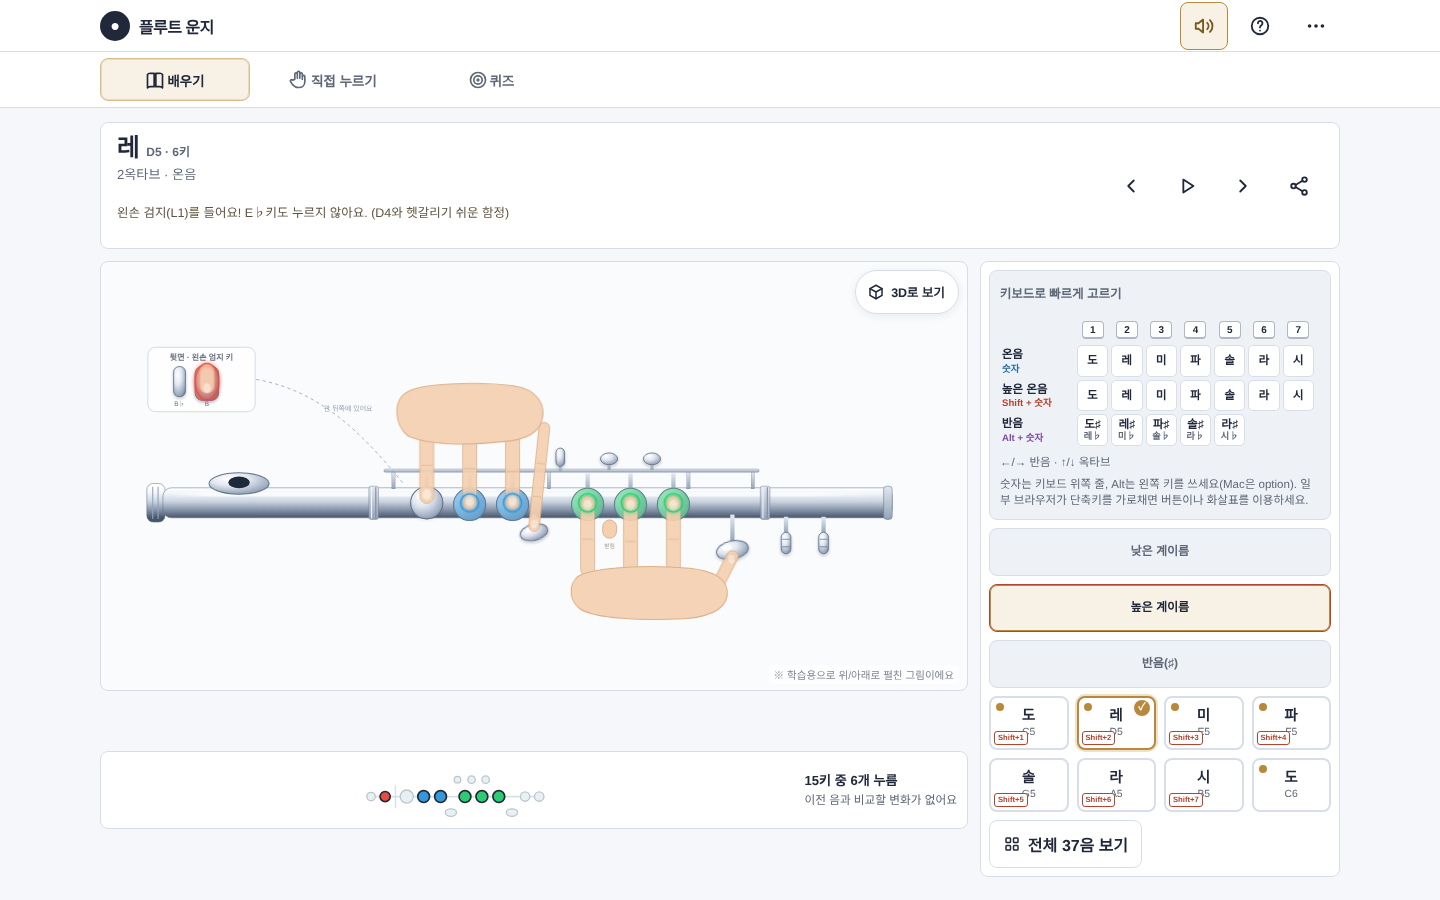
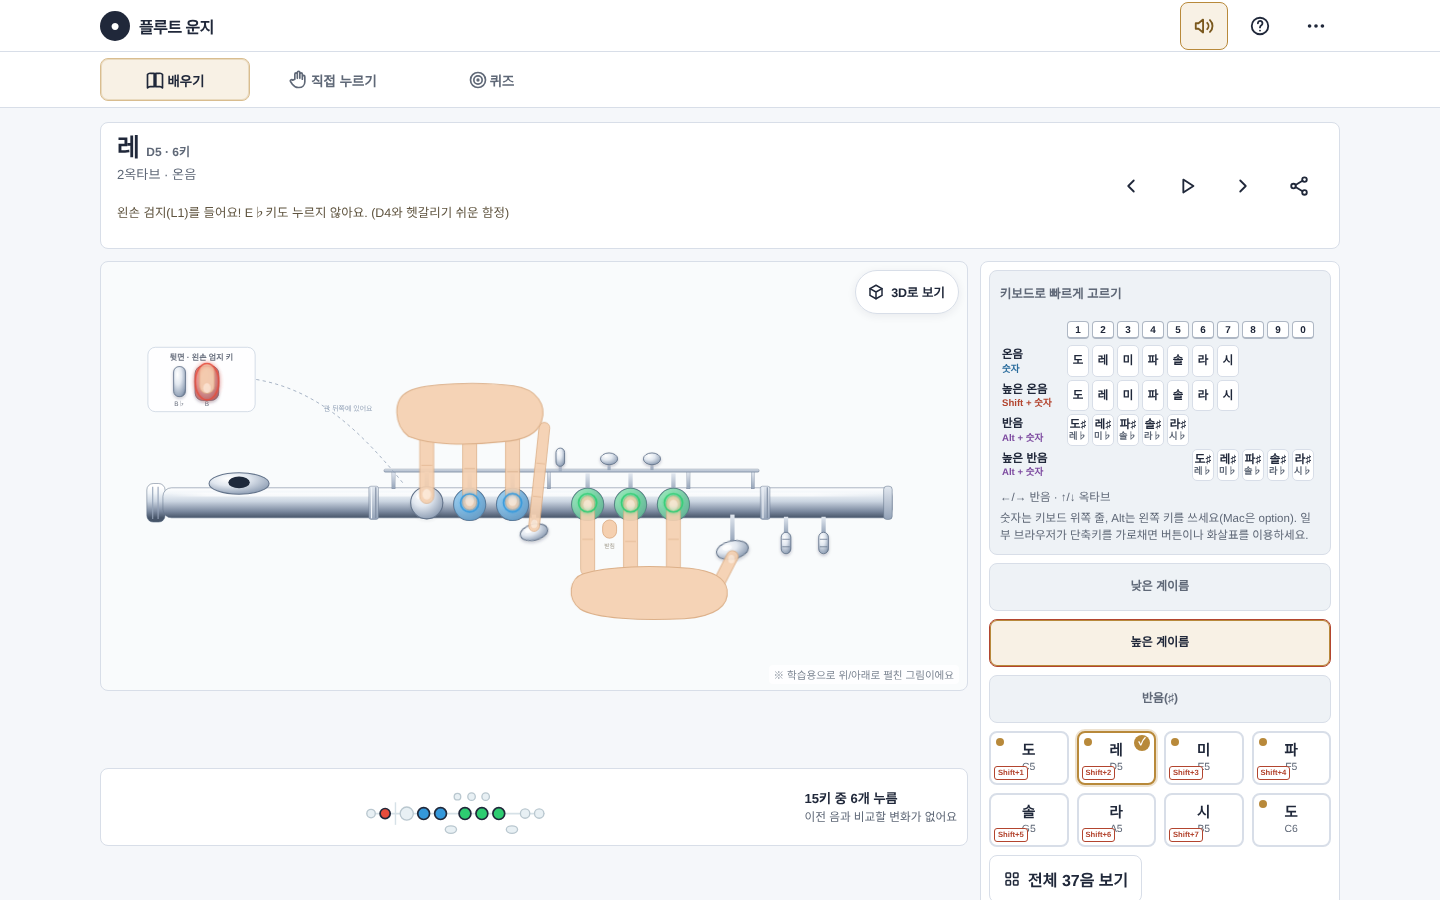
Add Alt+6-0 shortcuts for the high sharps/flats (24 shortcuts)
Alt+6, 7, 8, 9, 0 now pick C#5/Db5, D#5/Eb5, F#5/Gb5, G#5/Ab5 and
A#5/Bb5, continuing the Alt+1-5 row for C#4-A#4. Both the 2D app and the
3D view use the same NOTE_SHORTCUTS table (24 entries).

- 2D guide table: 10 columns (1 2 3 ... 9 0) mirroring the keyboard's
  number row, with a new "높은 반음" row under keys 6-0. Cells are
  narrower, so the header column and key caps were tightened.
- Note buttons in the 반음(♯) tab show Alt+6...Alt+0 badges.
- Speed mode: the question label says "높은 반음(♯)" for the high ones so
  C#4 and C#5 are never asked with the same wording.
- validateNoteGroups checks the new rows, the 1..9,0 digit order, 24 total,
  and that no note has two shortcuts.
- qa/check-3d-data.mjs accepts Digit0-9 and rejects a note with two
  shortcuts; docs and the 2D desktop screenshot are updated.

Claude-Session: https://claude.ai/code/session_01AGBZvwWJVfQoH8o65SEwUy

Changed region(s): [[0.6875, 0.3422, 0.9375, 0.9956], [0.25, 0.84, 0.375, 0.9333], [0.5625, 0.84, 0.6562, 0.9333]]

diff --git a/index.html b/index.html
@@ -385,16 +385,16 @@ body:not([data-mode="learn"]) .stage-3d-link{display:none}
 #kbd-guide{order:4;margin:0 0 8px;border:1px solid var(--line);border-radius:var(--radius);background:var(--surface-soft);padding:0 10px}
 #kbd-guide summary{min-height:44px;font-size:.78rem;font-weight:800;color:var(--muted);display:flex;align-items:center;cursor:pointer}
 .kbd-guide-body{padding:0 0 10px;font-size:.72rem;color:var(--muted)}
-/* 단축키 표: 열 = 위쪽 줄 숫자, 행 = 숫자만 · Shift · Alt (행 이름 색 = 버튼 배지 색) */
+/* 단축키 표: 열 = 위쪽 줄 숫자 1~0(10칸), 행 = 온음 · 높은 온음 · 반음 · 높은 반음 (행 이름 색 = 버튼 배지 색) */
 .kbd-table{width:100%;max-width:440px;table-layout:fixed;border-collapse:separate;border-spacing:3px;margin:0 -3px;font-size:.72rem;color:var(--ink)}
 .kbd-table th,.kbd-table td{padding:3px 0;text-align:center;vertical-align:middle;line-height:1.15}
-.kbd-table thead th:first-child{width:74px}
-.kbd-table kbd{display:inline-block;min-width:22px;padding:2px 4px;border:1px solid #aeb7c4;border-bottom-width:2px;border-radius:4px;background:#fff;color:var(--ink);font:inherit;font-size:.62rem;font-weight:800}
+.kbd-table thead th:first-child{width:64px}
+.kbd-table kbd{display:block;box-sizing:border-box;width:100%;max-width:28px;margin:0 auto;padding:2px 0;border:1px solid #aeb7c4;border-bottom-width:2px;border-radius:4px;background:#fff;color:var(--ink);font:inherit;font-size:.62rem;font-weight:800}
 .kbd-table tbody th{padding-left:2px;text-align:left;font-weight:850}
 .kbd-table tbody th small{display:block;margin-top:1px;font-size:.6rem;font-weight:800}
-.kbd-table tr[data-shortcut-row="plain"] th small{color:#2c6e9e}
-.kbd-table tr[data-shortcut-row="shift"] th small{color:#b3452f}
-.kbd-table tr[data-shortcut-row="alt"] th small{color:#7d4ba0}
+.kbd-table tr[data-shortcut-modifier="plain"] th small{color:#2c6e9e}
+.kbd-table tr[data-shortcut-modifier="shift"] th small{color:#b3452f}
+.kbd-table tr[data-shortcut-modifier="alt"] th small{color:#7d4ba0}
 .kbd-table td{border:1px solid var(--line);border-radius:5px;background:#fff;font-weight:800}
 .kbd-table td:empty{border-color:transparent;background:none}
 .kbd-table td small{display:block;font-size:.58rem;font-weight:700;color:var(--muted)}
@@ -1112,22 +1112,30 @@ const NOTE_GROUPS = Object.freeze({
 });
 
 /* 키보드 단축키 — 숫자는 키보드 위쪽 줄(e.code)만 쓴다.
-   숫자만 = 온음 도~시(C4~B4) · Shift+숫자 = 높은 도~시(C5~B5) · Alt+숫자 = 반음 도♯~라♯(C♯4~A♯4).
+   숫자만 = 온음 도~시(C4~B4) · Shift+숫자 = 높은 도~시(C5~B5)
+   Alt+1~5 = 반음 도♯~라♯(C♯4~A♯4) · Alt+6~0 = 높은 반음 도♯~라♯(C♯5~A♯5).
    3d.html에도 같은 표가 있다(qa/check-3d-data.mjs가 둘이 같은지 검사). */
 const NOTE_SHORTCUTS = Object.freeze({
   plain: Object.freeze({Digit1:"C4", Digit2:"D4", Digit3:"E4", Digit4:"F4", Digit5:"G4", Digit6:"A4", Digit7:"B4"}),
   shift: Object.freeze({Digit1:"C5", Digit2:"D5", Digit3:"E5", Digit4:"F5", Digit5:"G5", Digit6:"A5", Digit7:"B5"}),
-  alt: Object.freeze({Digit1:"Cs4", Digit2:"Ds4", Digit3:"Fs4", Digit4:"Gs4", Digit5:"As4"})
+  alt: Object.freeze({Digit1:"Cs4", Digit2:"Ds4", Digit3:"Fs4", Digit4:"Gs4", Digit5:"As4",
+                      Digit6:"Cs5", Digit7:"Ds5", Digit8:"Fs5", Digit9:"Gs5", Digit0:"As5"})
 });
-/* 단축키 줄의 표시 이름과, 그 단축키로 골랐을 때 펼칠 분류 탭 */
+/* 안내 표의 열: 키보드 위쪽 줄 순서(1 2 3 … 9 0) */
+const SHORTCUT_DIGITS = Object.freeze("1234567890".split(""));
+const digitCodes = digits => Object.freeze(digits.split("").map(digit => `Digit${digit}`));
+/* 안내 표의 한 줄 — 표시 이름, 누르는 키, 그 단축키로 골랐을 때 펼칠 분류 탭, 줄이 맡은 숫자(codes).
+   반음은 단축키가 10개(Alt+1~5, Alt+6~0)라 '반음'과 '높은 반음' 두 줄로 나눠 보이지만
+   같은 Alt 단축키이고 같은 '반음(♯)' 탭을 펼친다(validateNoteGroups가 확인). */
 const SHORTCUT_ROWS = Object.freeze([
-  Object.freeze({modifier:"plain", group:"low", title:"온음", keys:"숫자", prefix:""}),
-  Object.freeze({modifier:"shift", group:"high", title:"높은 온음", keys:"Shift + 숫자", prefix:"Shift+"}),
-  Object.freeze({modifier:"alt", group:"accidental", title:"반음", keys:"Alt + 숫자", prefix:"Alt+"})
+  Object.freeze({id:"plain",    modifier:"plain", group:"low",        title:"온음",      keys:"숫자",         prefix:"",       codes:digitCodes("1234567")}),
+  Object.freeze({id:"shift",    modifier:"shift", group:"high",       title:"높은 온음", keys:"Shift + 숫자", prefix:"Shift+", codes:digitCodes("1234567")}),
+  Object.freeze({id:"alt",      modifier:"alt",   group:"accidental", title:"반음",      keys:"Alt + 숫자",   prefix:"Alt+",   codes:digitCodes("12345")}),
+  Object.freeze({id:"alt-high", modifier:"alt",   group:"accidental", title:"높은 반음", keys:"Alt + 숫자",   prefix:"Alt+",   codes:digitCodes("67890")})
 ]);
 const shortcutRow = modifier => SHORTCUT_ROWS.find(row => row.modifier === modifier);
 const shortcutLabel = (modifier, code) => `${shortcutRow(modifier).prefix}${code.replace("Digit","")}`;
-const SHORTCUT_COUNT = SHORTCUT_ROWS.reduce((sum, row) => sum + Object.keys(NOTE_SHORTCUTS[row.modifier]).length, 0);
+const SHORTCUT_COUNT = Object.values(NOTE_SHORTCUTS).reduce((sum, map) => sum + Object.keys(map).length, 0);
 
 function validateNoteGroups(){
   const errors = [];
@@ -1147,15 +1155,25 @@ function validateNoteGroups(){
   });
   if (!NOTE_GROUPS.low.noteIds.includes("C5") || !NOTE_GROUPS.high.noteIds.includes("C5")) errors.push("C5 이중 분류 누락");
   if (NOTE_GROUPS.high.noteIds.at(-1) !== "C6") errors.push("높은 계이름 마지막은 C6이어야 함");
-  const expectedShortcutMidi = {plain:[60,62,64,65,67,69,71], shift:[72,74,76,77,79,81,83], alt:[61,63,66,68,70]};
+  const expectedShortcutMidi = {
+    plain:[60,62,64,65,67,69,71],
+    shift:[72,74,76,77,79,81,83],
+    alt:[61,63,66,68,70,73,75,78,80,82]
+  };
   Object.entries(expectedShortcutMidi).forEach(([modifier, midis]) => {
     const entries = Object.entries(NOTE_SHORTCUTS[modifier] || {});
-    if (entries.map(([code]) => code).join() !== midis.map((_, index) => `Digit${index + 1}`).join()) errors.push(`${modifier} 단축키는 1부터 차례대로여야 함`);
+    const expectedCodes = SHORTCUT_DIGITS.slice(0, midis.length).map(digit => `Digit${digit}`);
+    if (entries.map(([code]) => code).join() !== expectedCodes.join()) errors.push(`${modifier} 단축키는 1부터 차례대로(9 다음은 0)여야 함`);
     if (entries.map(([, id]) => noteById(id)?.midi).join() !== midis.join()) errors.push(`${modifier} 단축키 음 오류`);
-    const group = NOTE_GROUPS[shortcutRow(modifier)?.group];
+    const rows = SHORTCUT_ROWS.filter(row => row.modifier === modifier);
+    const group = NOTE_GROUPS[rows[0]?.group];
     if (!group || entries.some(([, id]) => !group.noteIds.includes(id))) errors.push(`${modifier} 단축키 음이 연결된 분류 탭에 없음`);
+    if (rows.some(row => row.group !== rows[0].group || row.prefix !== rows[0].prefix)) errors.push(`${modifier} 안내 표의 줄마다 탭·접두어가 다름`);
+    if (rows.flatMap(row => row.codes).join() !== expectedCodes.join()) errors.push(`${modifier} 안내 표의 줄이 단축키를 빠짐없이·겹치지 않게 담아야 함`);
   });
-  if (SHORTCUT_COUNT !== 19) errors.push(`단축키 개수 ${SHORTCUT_COUNT} (19개여야 함)`);
+  const shortcutNoteIds = Object.values(NOTE_SHORTCUTS).flatMap(map => Object.values(map));
+  if (new Set(shortcutNoteIds).size !== shortcutNoteIds.length) errors.push("한 음에 단축키가 둘 이상");
+  if (SHORTCUT_COUNT !== 24) errors.push(`단축키 개수 ${SHORTCUT_COUNT} (24개여야 함)`);
   if (errors.length) errors.forEach(error => console.error("❌ SHORTCUT:", error));
   else console.log(`✅ SHORTCUT OK: ${SHORTCUT_COUNT} mappings validated`);
   return errors.length === 0;
@@ -1480,25 +1498,25 @@ function renderDebugLayer(){
 const OCT_TITLES = { 1:"1옥타브 (낮은 음)", 2:"2옥타브 (가운데 음)", 3:"3옥타브 (높은 음)" };
 
 function shortcutsForNote(noteId){
-  return SHORTCUT_ROWS.flatMap(row => Object.entries(NOTE_SHORTCUTS[row.modifier])
+  return Object.entries(NOTE_SHORTCUTS).flatMap(([modifier, map]) => Object.entries(map)
     .filter(([, id]) => id === noteId)
-    .map(([code]) => ({modifier:row.modifier, label:shortcutLabel(row.modifier, code)})));
+    .map(([code]) => ({modifier, label:shortcutLabel(modifier, code)})));
 }
 
-/* 단축키 표: 위쪽 줄 숫자 1~7 × (숫자만 · Shift · Alt). 키보드 안내와 도움말이 함께 쓴다. */
+/* 단축키 표: 키보드 위쪽 줄 1 2 3 … 9 0 × (온음 · 높은 온음 · 반음 · 높은 반음). 키보드 안내와 도움말이 함께 쓴다.
+   줄이 맡지 않은 칸은 빈 칸으로 둬서, 어느 숫자 키가 어느 음인지 키보드 모양 그대로 보이게 한다. */
 function shortcutTableMarkup(){
-  const digits = ["1","2","3","4","5","6","7"];
-  const head = `<tr><th scope="col"><span class="sr-only">누르는 키</span></th>${digits.map(digit => `<th scope="col"><kbd>${digit}</kbd></th>`).join("")}</tr>`;
+  const head = `<tr><th scope="col"><span class="sr-only">누르는 키</span></th>${SHORTCUT_DIGITS.map(digit => `<th scope="col"><kbd>${digit}</kbd></th>`).join("")}</tr>`;
   const body = SHORTCUT_ROWS.map(row => {
-    const cells = digits.map(digit => {
+    const cells = SHORTCUT_DIGITS.map(digit => {
       const code = `Digit${digit}`;
+      if (!row.codes.includes(code)) return "<td></td>";
       const note = noteById(NOTE_SHORTCUTS[row.modifier][code]);
-      if (!note) return "<td></td>";
       const [main, other] = note.ko.split("/");
-      const spoken = `${shortcutLabel(row.modifier, code)}: ${row.modifier === "shift" ? "높은 " : ""}${note.ko}`;
+      const spoken = `${shortcutLabel(row.modifier, code)}: ${note.midi >= 72 ? "높은 " : ""}${note.ko}`;
       return `<td data-shortcut-cell="${row.modifier}-${code}"><span aria-hidden="true">${main}${other ? `<small>${other}</small>` : ""}</span><span class="sr-only">${spoken}</span></td>`;
     }).join("");
-    return `<tr data-shortcut-row="${row.modifier}"><th scope="row">${row.title}<small>${row.keys}</small></th>${cells}</tr>`;
+    return `<tr data-shortcut-row="${row.id}" data-shortcut-modifier="${row.modifier}"><th scope="row">${row.title}<small>${row.keys}</small></th>${cells}</tr>`;
   }).join("");
   return `<table class="kbd-table"><thead>${head}</thead><tbody>${body}</tbody></table>`;
 }
@@ -1676,7 +1694,7 @@ function hasOpenOverlay(){
     !document.getElementById("help-overlay").hidden;
 }
 
-/* 키보드: 19개 단축키(숫자 1~7 · Shift+1~7 · Alt+1~5) + ←/→ 반음, ↑/↓ 옥타브 */
+/* 키보드: 24개 단축키(숫자 1~7 · Shift+1~7 · Alt+1~5 · Alt+6~0) + ←/→ 반음, ↑/↓ 옥타브 */
 document.addEventListener("keydown", e => {
   const mode = document.body.dataset.mode;
   if (!["learn","speed"].includes(mode)) return;
@@ -1707,10 +1725,10 @@ document.addEventListener("keydown", e => {
 });
 
 window.debugShortcuts = async function debugShortcuts(){
-  for (const row of SHORTCUT_ROWS){
-    for (const [code, noteId] of Object.entries(NOTE_SHORTCUTS[row.modifier])){
-      selectNote(noteId, {source:"shortcut", group:row.group, updateUrl:false});
-      flashShortcut(row.modifier, noteId, code);
+  for (const [modifier, map] of Object.entries(NOTE_SHORTCUTS)){
+    for (const [code, noteId] of Object.entries(map)){
+      selectNote(noteId, {source:"shortcut", group:shortcutRow(modifier).group, updateUrl:false});
+      flashShortcut(modifier, noteId, code);
       await new Promise(resolve => setTimeout(resolve, 60));
     }
   }
@@ -2272,12 +2290,17 @@ function startDailyPractice(){
   startQuiz(1,{queue:buildDailyQueue(),daily:true});
 }
 
-/* 문제는 단축키가 있는 19음에서만 낸다 — 키보드로 답할 수 없는 음이나
+/* 문제는 단축키가 있는 24음에서만 낸다 — 키보드로 답할 수 없는 음이나
    같은 이름의 두 음(예: '낮은 계이름 · 도'가 C4인지 C5인지)이 섞이지 않게 */
 function buildSpeedQueue(){
   const pick = (modifier, count) => fisherYates(Object.values(NOTE_SHORTCUTS[modifier])).slice(0,count)
     .map(noteId => ({group:shortcutRow(modifier).group,noteId}));
   return fisherYates([...pick("plain",4), ...pick("shift",3), ...pick("alt",3)]);
+}
+/* 문제 이름표 — 반음은 낮은 것(C♯4…)과 높은 것(C♯5…)의 계이름이 같으니 높은 쪽에는 '높은'을 붙인다 */
+function speedGroupLabel(item){
+  const label = NOTE_GROUPS[item.group].label;
+  return item.group === "accidental" && noteById(item.noteId).midi >= 72 ? `높은 ${label}` : label;
 }
 function startSpeed(){
   stopSpeed();
@@ -2296,13 +2319,12 @@ function showSpeedQuestion(){
   if (speed.index >= speed.queue.length){ showSpeedEnd(); return; }
   const item = speed.queue[speed.index];
   const note = noteById(item.noteId);
-  const group = NOTE_GROUPS[item.group];
   speed.answering = true;
   speed.startedAt = performance.now();
   document.getElementById("quiz-body").innerHTML = `
     <div class="speed-question">
       <div>문제 ${speed.index + 1} / ${QUIZ_TOTAL}</div>
-      <div class="big">${group.label} · ${note.ko}</div>
+      <div class="big">${speedGroupLabel(item)} · ${note.ko}</div>
       <p>${matchMedia("(hover:hover) and (pointer:fine)").matches ? "올바른 단축키를 누르세요" : "분류 탭과 계이름 버튼으로 답하세요"}</p>
     </div>
     <div class="speed-gauge" aria-label="남은 시간 5초"><div class="speed-gauge-fill"></div></div>
@@ -2393,7 +2415,7 @@ function buildHelpSvg(){
       </div>
     </div></details>
     <details class="help-section"><summary>낮은·높은·반음 선택과 단축키</summary><div class="help-section-body">
-      <p style="line-height:1.6;margin-bottom:8px">분류 탭을 고른 뒤 계이름을 누르세요. 데스크톱에서는 키보드 위쪽 줄 숫자로 바로 고를 수 있어요 — 숫자 1~7은 도~시, Shift+1~7은 높은 도~시, Alt+1~5는 반음이에요.</p>
+      <p style="line-height:1.6;margin-bottom:8px">분류 탭을 고른 뒤 계이름을 누르세요. 데스크톱에서는 키보드 위쪽 줄 숫자로 바로 고를 수 있어요 — 숫자 1~7은 도~시, Shift+1~7은 높은 도~시, Alt+1~5는 반음, Alt+6~0은 높은 반음이에요.</p>
       ${shortcutTableMarkup()}
       <p class="kbd-guide-note">←/→ 반음 · ↑/↓ 옥타브. Alt는 왼쪽 키를 쓰세요(Mac은 option). 일부 브라우저나 운영체제가 단축키를 먼저 사용하면 화면 버튼을 이용하세요.</p>
     </div></details>

diff --git a/3d.html b/3d.html
@@ -308,7 +308,7 @@ footer{padding:6px 12px 22px;text-align:center;color:#7e8794;font-size:.72rem;li
         <button class="opt-row" role="switch" aria-checked="false" data-opt="slow" aria-labelledby="opt-slow-l" aria-describedby="opt-slow-d">
           <span class="opt-text"><span class="opt-label" id="opt-slow-l">천천히 움직이기</span><span class="opt-desc" id="opt-slow-d">손 동작과 자동 재생을 0.4배속으로 해요</span></span><span class="opt-switch" aria-hidden="true"></span></button>
       </div>
-      <p class="kbd-note">키보드: <span>숫자 1~7 도~시</span> · <span>Shift+1~7 높은 도~시</span> · <span>Alt+1~5 반음(도♯~라♯)</span> · <span>←/→ 반음</span> · <span>↑/↓ 옥타브</span></p>
+      <p class="kbd-note">키보드: <span>숫자 1~7 도~시</span> · <span>Shift+1~7 높은 도~시</span> · <span>Alt+1~5 반음(도♯~라♯)</span> · <span>Alt+6~0 높은 반음</span> · <span>←/→ 반음</span> · <span>↑/↓ 옥타브</span></p>
     </details>
   </div>
 </main>
@@ -408,11 +408,13 @@ const KEY_GROUP = Object.freeze({
 const SIDE_KEYS = ["bbSide","tr1","tr2"];
 const OCT_LABELS = { 1:"낮은 음", 2:"가운데 음", 3:"높은 음" };
 /* 키보드 단축키 — index.html과 같은 표(qa/check-3d-data.mjs가 비교). 숫자는 키보드 위쪽 줄(e.code)만.
-   숫자만 = 온음 도~시(C4~B4) · Shift+숫자 = 높은 도~시(C5~B5) · Alt+숫자 = 반음 도♯~라♯(C♯4~A♯4) */
+   숫자만 = 온음 도~시(C4~B4) · Shift+숫자 = 높은 도~시(C5~B5)
+   Alt+1~5 = 반음 도♯~라♯(C♯4~A♯4) · Alt+6~0 = 높은 반음 도♯~라♯(C♯5~A♯5) */
 const NOTE_SHORTCUTS = Object.freeze({
   plain: Object.freeze({Digit1:"C4", Digit2:"D4", Digit3:"E4", Digit4:"F4", Digit5:"G4", Digit6:"A4", Digit7:"B4"}),
   shift: Object.freeze({Digit1:"C5", Digit2:"D5", Digit3:"E5", Digit4:"F5", Digit5:"G5", Digit6:"A5", Digit7:"B5"}),
-  alt: Object.freeze({Digit1:"Cs4", Digit2:"Ds4", Digit3:"Fs4", Digit4:"Gs4", Digit5:"As4"})
+  alt: Object.freeze({Digit1:"Cs4", Digit2:"Ds4", Digit3:"Fs4", Digit4:"Gs4", Digit5:"As4",
+                      Digit6:"Cs5", Digit7:"Ds5", Digit8:"Fs5", Digit9:"Gs5", Digit0:"As5"})
 });
 const GROUP_HEX = { thumb:0xe74c3c, left:0x3498db, right:0x2ecc71, trill:0xf39c12, pinky:0x9b59b6 };
 const noteById = id => NOTES.find(n => n.id === id);
@@ -1219,7 +1221,7 @@ function bindUi(){
     if (key === "ghost") viewer?.setGhost(state.opts.ghost);
     if (key === "slow") speed = state.opts.slow ? 0.4 : 1;
   }));
-  /* 키보드: 숫자 1~7 · Shift+1~7 · Alt+1~5로 바로 고르기(2D 앱과 같음) + ←/→ 반음 · ↑/↓ 옥타브 */
+  /* 키보드: 숫자 1~7 · Shift+1~7 · Alt+1~5 · Alt+6~0으로 바로 고르기(2D 앱과 같음) + ←/→ 반음 · ↑/↓ 옥타브 */
   document.addEventListener("keydown", event => {
     if (event.ctrlKey || event.metaKey || event.isComposing || event.keyCode === 229) return;
     if (event.target instanceof Element && (event.target.matches("input,select,textarea") || event.target.isContentEditable)) return;

diff --git a/docs/3d-view.md b/docs/3d-view.md
@@ -59,7 +59,7 @@ node qa/check-3d-data.mjs
 - **옥타브 버튼 = 지금 음을 같은 계이름으로 옮김**: D♯5에서 「3옥타브」를 누르면 D♯6이 됩니다(↑/↓ 키와 같은 동작). 그래서 건반에는 항상 선택한 음이 보입니다. 키보드(숫자 단축키 · ←/→/↑/↓), 이전/다음 버튼, 자동 재생으로 음이 바뀌어도 건반이 그 옥타브로 따라갑니다.
 - **선택한 음**은 금색(`--accent`) 채움 하나로 표시합니다(예전의 ✓ 배지는 뺐습니다). 강제 색상 모드에서는 3px 윤곽선으로 보입니다.
 - **보기 설정**(손 보이기 · 손 반투명 · 달라진 키 표시 · 천천히 움직이기)은 기본으로 접혀 있고, 펼치면 `role="switch"` 스위치 4개와 키보드 안내가 나옵니다. 기본값은 손 켬 · 반투명 끔 · 달라진 키 켬 · 천천히 끔입니다.
-- **키보드 단축키(2D 앱과 같음)**: 숫자 1~7 = 도~시(C4~B4) · Shift+1~7 = 높은 도~시(C5~B5) · Alt+1~5 = 반음 도♯/레♭ · 레♯/미♭ · 파♯/솔♭ · 솔♯/라♭ · 라♯/시♭(C♯4~A♯4) · ←/→ 반음 · ↑/↓ 옥타브. 숫자는 키보드 위쪽 줄만 씁니다(`event.code` 기준이라 Shift를 눌러 기호가 나와도, 한글 입력 상태여도 같은 키로 인식). 표는 `NOTE_SHORTCUTS` 하나이고 `index.html`에 같은 표가 있으며, `qa/check-3d-data.mjs`(GitHub Actions `data-sync`)가 둘이 같은지 검사합니다. 표에 없는 조합(숫자 8·9·0, Ctrl, Shift+Alt 등)은 브라우저 기본 동작을 막지 않습니다.
+- **키보드 단축키(2D 앱과 같음)**: 숫자 1~7 = 도~시(C4~B4) · Shift+1~7 = 높은 도~시(C5~B5) · Alt+1~5 = 반음 도♯/레♭ · 레♯/미♭ · 파♯/솔♭ · 솔♯/라♭ · 라♯/시♭(C♯4~A♯4) · Alt+6~0 = 높은 반음(같은 순서, C♯5~A♯5) · ←/→ 반음 · ↑/↓ 옥타브. 숫자는 키보드 위쪽 줄만 씁니다(`event.code` 기준이라 Shift를 눌러 기호가 나와도, 한글 입력 상태여도 같은 키로 인식). 표는 `NOTE_SHORTCUTS` 하나이고 `index.html`에 같은 표가 있으며, `qa/check-3d-data.mjs`(GitHub Actions `data-sync`)가 둘이 같은지 검사합니다. 표에 없는 조합(숫자만 또는 Shift로 누른 8·9·0, Ctrl, Shift+Alt 등)은 브라우저 기본 동작을 막지 않습니다. 단축키는 모두 24개이고, 한 음에 단축키는 하나뿐입니다(`qa/check-3d-data.mjs`가 겹침도 검사).
 - 코드는 `buildSelector()`(건반 생성) · `showOctave()`(옥타브 전환) · `centerActiveKey()`(가운데 맞추기) · `bindUi()`의 `#selector3d` 클릭 처리에 있습니다. 옥타브 1~3(옥타브마다 12~13칸)을 가정하며, 음 범위가 달라져도 건반 줄은 칸 수만큼 그대로 늘어납니다. 칸 폭은 CSS `.note-btn`의 `flex-basis: clamp(44px, (100% − 24px) ÷ 6.5, 72px)`로 정합니다. `.piano`의 padding(5px)은 선택한 칸의 빛(3px)과 포커스 링(3px+2px)이 스크롤 영역에 잘리지 않게 하는 여백이므로 함께 바꾸세요.
 
 ## 좌표 · 자세 규약
@@ -104,6 +104,6 @@ node qa/check-3d-data.mjs
 - 함정 음 D4·D5·D6, 대체 운지 A♯4(3종), 롤러 C4·C♯4, 트릴 B♭6·B6의 손가락이 해당 키에 닿는다.
 - 오른쪽 패널: 옥타브 버튼을 누르면 같은 계이름으로 옮겨지고 건반에 선택한 음(금색)이 보인다. C7은 3옥타브에서만 있다. 「보기 설정」은 접혀 있고 펼치면 스위치 4개가 나온다.
 - 건반은 한 줄이고 손가락으로 옆으로 밀 수 있다(가장자리 칸이 반쯤 잘려 보임). 어떤 음을 골라도 그 칸이 줄 가운데(줄 끝이면 끝)에 오고, 건반 위에서 위아래로 밀면 페이지가 스크롤된다.
-- 키보드 숫자 1~7(도~시) · Shift+1~7(높은 도~시) · Alt+1~5(반음)로 2D·3D 모두 같은 음이 골라진다. 2D에서는 그 단축키의 탭(낮은 계이름 · 높은 계이름 · 반음)이 펼쳐지고 안내 표의 그 칸이 반짝인다. Windows에서는 Alt를 왼쪽 키로 누른다(오른쪽 Alt는 한/영 키).
+- 키보드 숫자 1~7(도~시) · Shift+1~7(높은 도~시) · Alt+1~5(반음) · Alt+6~0(높은 반음)으로 2D·3D 모두 같은 음이 골라진다(24개). 2D에서는 그 단축키의 탭(낮은 계이름 · 높은 계이름 · 반음)이 펼쳐지고 안내 표의 그 칸이 반짝인다. Windows에서는 Alt를 왼쪽 키로 누른다(오른쪽 Alt는 한/영 키).
 - 앱을 한 번 연 뒤 오프라인에서 2D·3D 화면이 각각 제대로 열린다.
 - WebGL을 끈 브라우저에서 안내 문구와 2D 링크가 나온다.
